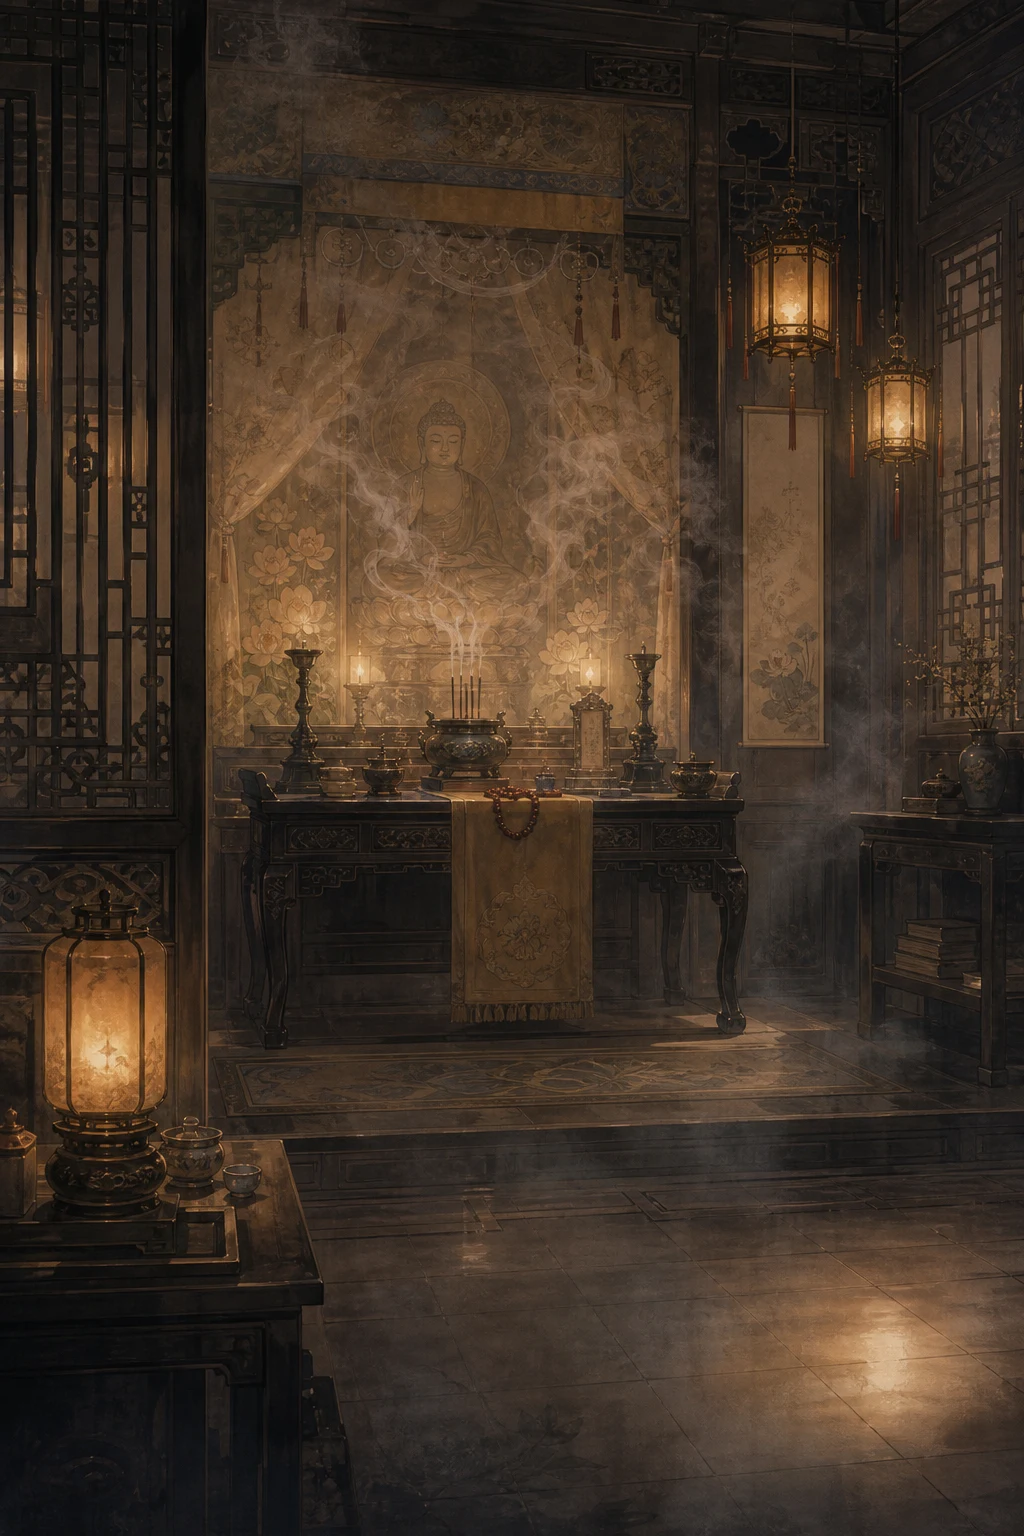
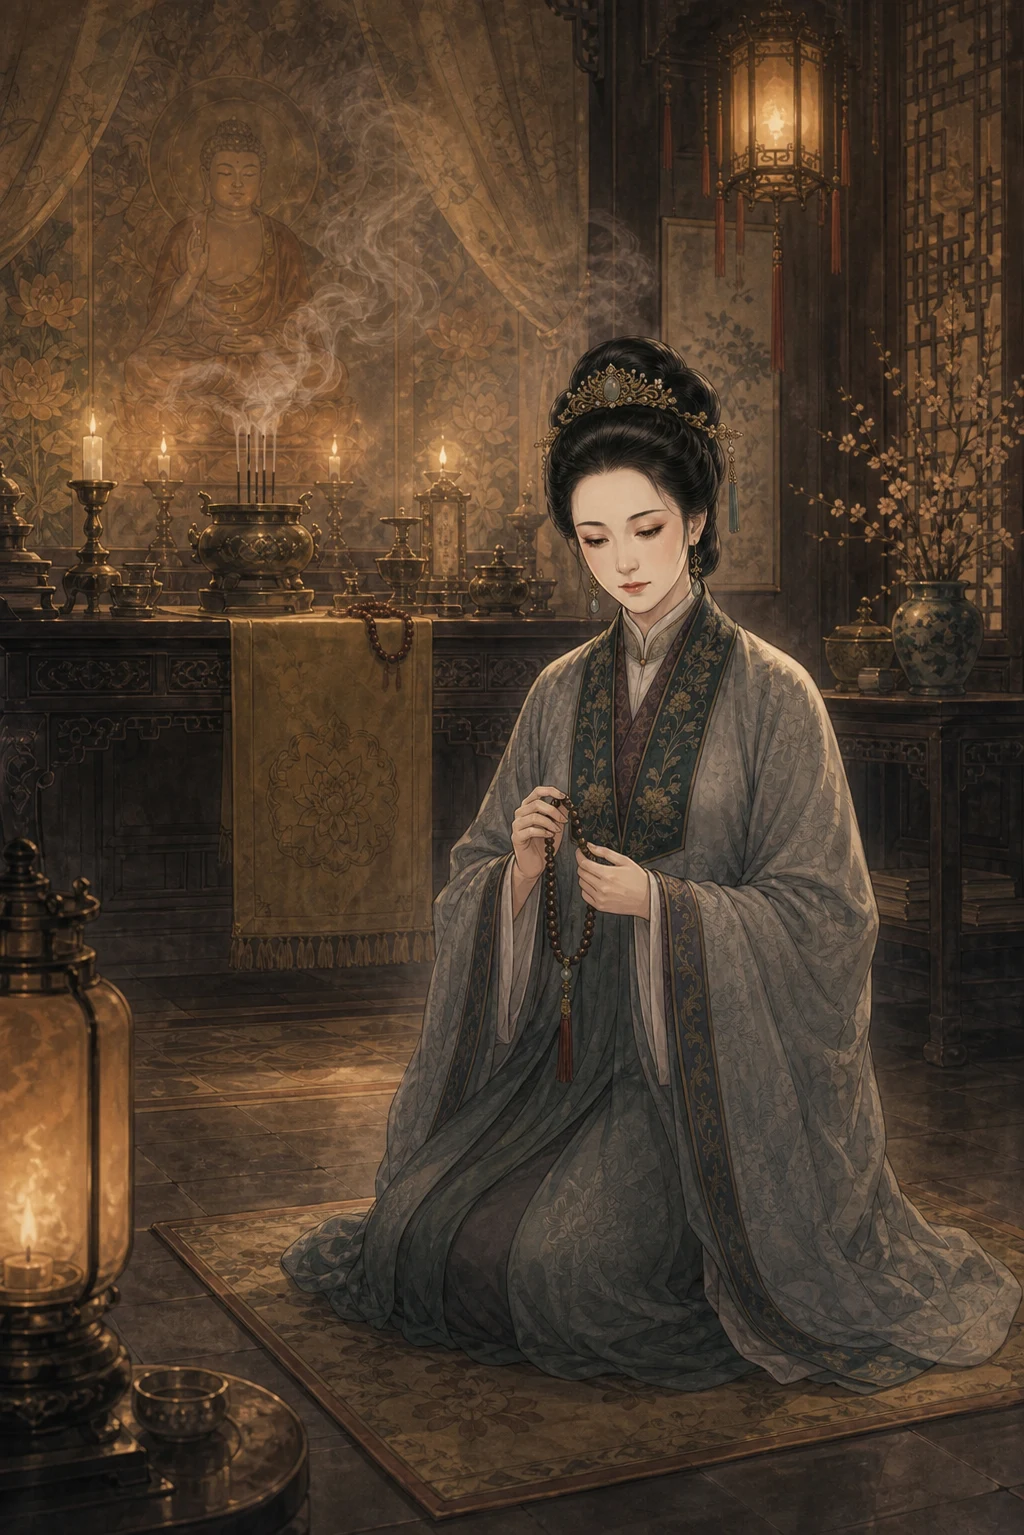
Updates

diff --git a/index.html b/index.html
@@ -13,8 +13,8 @@
     <link rel="preconnect" href="https://fonts.gstatic.com" crossorigin />
     <link href="https://fonts.googleapis.com/css2?family=Noto+Serif+SC:wght@200;400;700&display=swap" rel="stylesheet" />
     <title>红楼幻梦</title>
-    <script type="module" crossorigin src="./assets/index-D9Fabosv.js"></script>
-    <link rel="stylesheet" crossorigin href="./assets/index-DBnyM7tY.css">
+    <script type="module" crossorigin src="./assets/index-BnlBShAM.js"></script>
+    <link rel="stylesheet" crossorigin href="./assets/index-D2oEO_wJ.css">
   <link rel="manifest" href="./manifest.webmanifest"><script id="vite-plugin-pwa:register-sw" src="./registerSW.js"></script></head>
   <body>
     <div id="root"></div>

diff --git a/sw.js b/sw.js
@@ -1,1 +1,1 @@
-if(!self.define){let e,s={};const n=(n,i)=>(n=new URL(n+".js",i).href,s[n]||new Promise(s=>{if("document"in self){const e=document.createElement("script");e.src=n,e.onload=s,document.head.appendChild(e)}else e=n,importScripts(n),s()}).then(()=>{let e=s[n];if(!e)throw new Error(`Module ${n} didn’t register its module`);return e}));self.define=(i,r)=>{const l=e||("document"in self?document.currentScript.src:"")||location.href;if(s[l])return;let a={};const o=e=>n(e,l),t={module:{uri:l},exports:a,require:o};s[l]=Promise.all(i.map(e=>t[e]||o(e))).then(e=>(r(...e),a))}}define(["./workbox-dcde9eb3"],function(e){"use strict";self.skipWaiting(),e.clientsClaim(),e.precacheAndRoute([{url:"registerSW.js",revision:"402b66900e731ca748771b6fc5e7a068"},{url:"index.html",revision:"3681aea67ce051d03186f6af883439fe"},{url:"icons.svg",revision:"3b4fcfcf393eca4d264dca4a4663bc37"},{url:"icon-512.png",revision:"1262cfe5e1c99598004da97f4865f718"},{url:"icon-192.png",revision:"11968d7364ebc2a8b5d2d5cf9469921e"},{url:"favicon.svg",revision:"7e840862161341271697daa99a40d76b"},{url:"apple-touch-icon.png",revision:"c5b6a09361b90baf7b52fb691455790a"},{url:"assets/index-DBnyM7tY.css",revision:null},{url:"assets/index-D9Fabosv.js",revision:null},{url:"assets/ui/menu-bg.webp",revision:null},{url:"assets/ui/gallery-bg.webp",revision:null},{url:"assets/scenes/wangfuren-hall.webp",revision:null},{url:"assets/scenes/wangfuren-fotang.webp",revision:null},{url:"assets/scenes/jiamu-hall.webp",revision:null},{url:"assets/scenes/fengjie-opera.webp",revision:null},{url:"assets/scenes/daiyu-xiaoxiang.webp",revision:null},{url:"assets/portraits/wangfuren-open.webp",revision:null},{url:"assets/portraits/wangfuren-guarded.webp",revision:null},{url:"assets/portraits/wangfuren-calm.webp",revision:null},{url:"assets/portraits/jiamu-open.webp",revision:null},{url:"assets/portraits/jiamu-guarded.webp",revision:null},{url:"assets/portraits/jiamu-calm.webp",revision:null},{url:"assets/portraits/fengjie-open.webp",revision:null},{url:"assets/portraits/fengjie-guarded.webp",revision:null},{url:"assets/portraits/fengjie-calm.webp",revision:null},{url:"assets/portraits/daiyu-open.webp",revision:null},{url:"assets/portraits/daiyu-guarded.webp",revision:null},{url:"assets/portraits/daiyu-calm.webp",revision:null},{url:"assets/locations/yihong.webp",revision:null},{url:"assets/locations/xiaoxiang.webp",revision:null},{url:"assets/locations/qiushuang.webp",revision:null},{url:"assets/locations/qinfang.webp",revision:null},{url:"assets/locations/longcui.webp",revision:null},{url:"assets/locations/hengwu.webp",revision:null},{url:"assets/events/zuimian-shaoyao.webp",revision:null},{url:"assets/events/tingquan-shentan.webp",revision:null},{url:"assets/events/sishan-xiaoxiao.webp",revision:null},{url:"assets/events/kanwairen-dongfanxin.webp",revision:null},{url:"assets/events/gongdu-xixiang.webp",revision:null},{url:"assets/characters/xiren-portrait.webp",revision:null},{url:"assets/characters/xiangyun-portrait.webp",revision:null},{url:"assets/characters/tanchun-portrait.webp",revision:null},{url:"assets/characters/qingwen-portrait.webp",revision:null},{url:"assets/characters/miaoyu-portrait.webp",revision:null},{url:"assets/characters/daiyu-portrait.webp",revision:null},{url:"assets/characters/baochai-portrait.webp",revision:null},{url:"icon-192.png",revision:"11968d7364ebc2a8b5d2d5cf9469921e"},{url:"icon-512.png",revision:"1262cfe5e1c99598004da97f4865f718"},{url:"manifest.webmanifest",revision:"b56b2cd41b08ded0b2807558e7e788be"}],{}),e.cleanupOutdatedCaches(),e.registerRoute(new e.NavigationRoute(e.createHandlerBoundToURL("index.html"))),e.registerRoute(/^https:\/\/fonts\.googleapis\.com\/.*/i,new e.CacheFirst({cacheName:"google-fonts-cache",plugins:[new e.ExpirationPlugin({maxEntries:10,maxAgeSeconds:31536e3})]}),"GET")});
+if(!self.define){let e,s={};const n=(n,i)=>(n=new URL(n+".js",i).href,s[n]||new Promise(s=>{if("document"in self){const e=document.createElement("script");e.src=n,e.onload=s,document.head.appendChild(e)}else e=n,importScripts(n),s()}).then(()=>{let e=s[n];if(!e)throw new Error(`Module ${n} didn’t register its module`);return e}));self.define=(i,r)=>{const l=e||("document"in self?document.currentScript.src:"")||location.href;if(s[l])return;let a={};const o=e=>n(e,l),u={module:{uri:l},exports:a,require:o};s[l]=Promise.all(i.map(e=>u[e]||o(e))).then(e=>(r(...e),a))}}define(["./workbox-dcde9eb3"],function(e){"use strict";self.skipWaiting(),e.clientsClaim(),e.precacheAndRoute([{url:"registerSW.js",revision:"402b66900e731ca748771b6fc5e7a068"},{url:"index.html",revision:"2d0bab3d9e3976017ca1d53c6ffc3efb"},{url:"icons.svg",revision:"3b4fcfcf393eca4d264dca4a4663bc37"},{url:"icon-512.png",revision:"1262cfe5e1c99598004da97f4865f718"},{url:"icon-192.png",revision:"11968d7364ebc2a8b5d2d5cf9469921e"},{url:"favicon.svg",revision:"7e840862161341271697daa99a40d76b"},{url:"apple-touch-icon.png",revision:"c5b6a09361b90baf7b52fb691455790a"},{url:"assets/index-D2oEO_wJ.css",revision:null},{url:"assets/index-BnlBShAM.js",revision:null},{url:"assets/ui/menu-bg.webp",revision:null},{url:"assets/ui/gallery-bg.webp",revision:null},{url:"assets/scenes/well-relics.webp",revision:null},{url:"assets/scenes/wangfuren-hall.webp",revision:null},{url:"assets/scenes/wangfuren-fotang.webp",revision:null},{url:"assets/scenes/opening-taoist-stall.webp",revision:null},{url:"assets/scenes/opening-mirror-face.webp",revision:null},{url:"assets/scenes/opening-mirror-back.webp",revision:null},{url:"assets/scenes/jiamu-hall.webp",revision:null},{url:"assets/scenes/fengjie-opera.webp",revision:null},{url:"assets/scenes/ending-mirror-moon.webp",revision:null},{url:"assets/scenes/day3-dawn-mansion.webp",revision:null},{url:"assets/scenes/day2-well-morning.webp",revision:null},{url:"assets/scenes/day2-garden-search.webp",revision:null},{url:"assets/scenes/daiyu-xiaoxiang.webp",revision:null},{url:"assets/portraits/wangfuren-open.webp",revision:null},{url:"assets/portraits/wangfuren-guarded.webp",revision:null},{url:"assets/portraits/wangfuren-calm.webp",revision:null},{url:"assets/portraits/jiamu-open.webp",revision:null},{url:"assets/portraits/jiamu-guarded.webp",revision:null},{url:"assets/portraits/jiamu-calm.webp",revision:null},{url:"assets/portraits/fengjie-open.webp",revision:null},{url:"assets/portraits/fengjie-guarded.webp",revision:null},{url:"assets/portraits/fengjie-calm.webp",revision:null},{url:"assets/portraits/daiyu-open.webp",revision:null},{url:"assets/portraits/daiyu-guarded.webp",revision:null},{url:"assets/portraits/daiyu-calm.webp",revision:null},{url:"assets/locations/yihong.webp",revision:null},{url:"assets/locations/xiaoxiang.webp",revision:null},{url:"assets/locations/qiushuang.webp",revision:null},{url:"assets/locations/qinfang.webp",revision:null},{url:"assets/locations/longcui.webp",revision:null},{url:"assets/locations/hengwu.webp",revision:null},{url:"assets/events/zuimian-shaoyao.webp",revision:null},{url:"assets/events/tingquan-shentan.webp",revision:null},{url:"assets/events/sishan-xiaoxiao.webp",revision:null},{url:"assets/events/kanwairen-dongfanxin.webp",revision:null},{url:"assets/events/gongdu-xixiang.webp",revision:null},{url:"assets/characters/xiren-portrait.webp",revision:null},{url:"assets/characters/xiangyun-portrait.webp",revision:null},{url:"assets/characters/tanchun-portrait.webp",revision:null},{url:"assets/characters/qingwen-portrait.webp",revision:null},{url:"assets/characters/miaoyu-portrait.webp",revision:null},{url:"assets/characters/daiyu-portrait.webp",revision:null},{url:"assets/characters/baochai-portrait.webp",revision:null},{url:"icon-192.png",revision:"11968d7364ebc2a8b5d2d5cf9469921e"},{url:"icon-512.png",revision:"1262cfe5e1c99598004da97f4865f718"},{url:"manifest.webmanifest",revision:"b56b2cd41b08ded0b2807558e7e788be"}],{}),e.cleanupOutdatedCaches(),e.registerRoute(new e.NavigationRoute(e.createHandlerBoundToURL("index.html"))),e.registerRoute(/^https:\/\/fonts\.googleapis\.com\/.*/i,new e.CacheFirst({cacheName:"google-fonts-cache",plugins:[new e.ExpirationPlugin({maxEntries:10,maxAgeSeconds:31536e3})]}),"GET")});

diff --git a/assets/index-D2oEO_wJ.css b/assets/index-D2oEO_wJ.css
@@ -1,0 +1,1 @@
+@layer properties{@supports (((-webkit-hyphens:none)) and (not (margin-trim:inline))) or ((-moz-orient:inline) and (not (color:rgb(from red r g b)))){*,:before,:after,::backdrop{--tw-rotate-x:initial;--tw-rotate-y:initial;--tw-rotate-z:initial;--tw-skew-x:initial;--tw-skew-y:initial;--tw-space-y-reverse:0;--tw-border-style:solid;--tw-gradient-position:initial;--tw-gradient-from:#0000;--tw-gradient-via:#0000;--tw-gradient-to:#0000;--tw-gradient-stops:initial;--tw-gradient-via-stops:initial;--tw-gradient-from-position:0%;--tw-gradient-via-position:50%;--tw-gradient-to-position:100%;--tw-leading:initial;--tw-font-weight:initial;--tw-tracking:initial;--tw-blur:initial;--tw-brightness:initial;--tw-contrast:initial;--tw-grayscale:initial;--tw-hue-rotate:initial;--tw-invert:initial;--tw-opacity:initial;--tw-saturate:initial;--tw-sepia:initial;--tw-drop-shadow:initial;--tw-drop-shadow-color:initial;--tw-drop-shadow-alpha:100%;--tw-drop-shadow-size:initial;--tw-backdrop-blur:initial;--tw-backdrop-brightness:initial;--tw-backdrop-contrast:initial;--tw-backdrop-grayscale:initial;--tw-backdrop-hue-rotate:initial;--tw-backdrop-invert:initial;--tw-backdrop-opacity:initial;--tw-backdrop-saturate:initial;--tw-backdrop-sepia:initial;--tw-duration:initial}}}@layer theme{:root,:host{--font-sans:ui-sans-serif, system-ui, sans-serif, "Apple Color Emoji", "Segoe UI Emoji", "Segoe UI Symbol", "Noto Color Emoji";--font-serif:"Noto Serif SC", "STSong", "SimSun", "Songti SC", serif;--font-mono:ui-monospace, SFMono-Regular, Menlo, Monaco, Consolas, "Liberation Mono", "Courier New", monospace;--color-amber-50:oklch(98.7% .022 95.277);--color-amber-100:oklch(96.2% .059 95.617);--color-amber-200:oklch(92.4% .12 95.746);--color-amber-300:oklch(87.9% .169 91.605);--color-stone-50:oklch(98.5% .001 106.423);--color-stone-100:oklch(97% .001 106.424);--color-stone-200:oklch(92.3% .003 48.717);--color-stone-300:oklch(86.9% .005 56.366);--color-stone-400:oklch(70.9% .01 56.259);--color-stone-500:oklch(55.3% .013 58.071);--color-stone-600:oklch(44.4% .011 73.639);--color-stone-700:oklch(37.4% .01 67.558);--color-stone-800:oklch(26.8% .007 34.298);--color-stone-900:oklch(21.6% .006 56.043);--color-stone-950:oklch(14.7% .004 49.25);--color-black:#000;--color-white:#fff;--spacing:.25rem;--text-lg:1.125rem;--text-lg--line-height:calc(1.75 / 1.125);--font-weight-bold:700;--tracking-wide:.025em;--tracking-widest:.1em;--radius-md:.375rem;--blur-sm:8px;--default-transition-duration:.15s;--default-transition-timing-function:cubic-bezier(.4, 0, .2, 1);--default-font-family:var(--font-sans);--default-mono-font-family:var(--font-mono)}}@layer base{*,:after,:before,::backdrop{box-sizing:border-box;border:0 solid;margin:0;padding:0}::file-selector-button{box-sizing:border-box;border:0 solid;margin:0;padding:0}html,:host{-webkit-text-size-adjust:100%;tab-size:4;line-height:1.5;font-family:var(--default-font-family,ui-sans-serif, system-ui, sans-serif, "Apple Color Emoji", "Segoe UI Emoji", "Segoe UI Symbol", "Noto Color Emoji");font-feature-settings:var(--default-font-feature-settings,normal);font-variation-settings:var(--default-font-variation-settings,normal);-webkit-tap-highlight-color:transparent}hr{height:0;color:inherit;border-top-width:1px}abbr:where([title]){-webkit-text-decoration:underline dotted;text-decoration:underline dotted}h1,h2,h3,h4,h5,h6{font-size:inherit;font-weight:inherit}a{color:inherit;-webkit-text-decoration:inherit;text-decoration:inherit}b,strong{font-weight:bolder}code,kbd,samp,pre{font-family:var(--default-mono-font-family,ui-monospace, SFMono-Regular, Menlo, Monaco, Consolas, "Liberation Mono", "Courier New", monospace);font-feature-settings:var(--default-mono-font-feature-settings,normal);font-variation-settings:var(--default-mono-font-variation-settings,normal);font-size:1em}small{font-size:80%}sub,sup{vertical-align:baseline;font-size:75%;line-height:0;position:relative}sub{bottom:-.25em}sup{top:-.5em}table{text-indent:0;border-color:inherit;border-collapse:collapse}:-moz-focusring{outline:auto}progress{vertical-align:baseline}summary{display:list-item}ol,ul,menu{list-style:none}img,svg,video,canvas,audio,iframe,embed,object{vertical-align:middle;display:block}img,video{max-width:100%;height:auto}button,input,select,optgroup,textarea{font:inherit;font-feature-settings:inherit;font-variation-settings:inherit;letter-spacing:inherit;color:inherit;opacity:1;background-color:#0000;border-radius:0}::file-selector-button{font:inherit;font-feature-settings:inherit;font-variation-settings:inherit;letter-spacing:inherit;color:inherit;opacity:1;background-color:#0000;border-radius:0}:where(select:is([multiple],[size])) optgroup{font-weight:bolder}:where(select:is([multiple],[size])) optgroup option{padding-inline-start:20px}::file-selector-button{margin-inline-end:4px}::placeholder{opacity:1}@supports (not ((-webkit-appearance:-apple-pay-button))) or (contain-intrinsic-size:1px){::placeholder{color:currentColor}@supports (color:color-mix(in lab,red,red)){::placeholder{color:color-mix(in oklab,currentcolor 50%,transparent)}}}textarea{resize:vertical}::-webkit-search-decoration{-webkit-appearance:none}::-webkit-date-and-time-value{min-height:1lh;text-align:inherit}::-webkit-datetime-edit{display:inline-flex}::-webkit-datetime-edit-fields-wrapper{padding:0}::-webkit-datetime-edit{padding-block:0}::-webkit-datetime-edit-year-field{padding-block:0}::-webkit-datetime-edit-month-field{padding-block:0}::-webkit-datetime-edit-day-field{padding-block:0}::-webkit-datetime-edit-hour-field{padding-block:0}::-webkit-datetime-edit-minute-field{padding-block:0}::-webkit-datetime-edit-second-field{padding-block:0}::-webkit-datetime-edit-millisecond-field{padding-block:0}::-webkit-datetime-edit-meridiem-field{padding-block:0}::-webkit-calendar-picker-indicator{line-height:1}:-moz-ui-invalid{box-shadow:none}button,input:where([type=button],[type=reset],[type=submit]){appearance:button}::file-selector-button{appearance:button}::-webkit-inner-spin-button{height:auto}::-webkit-outer-spin-button{height:auto}[hidden]:where(:not([hidden=until-found])){display:none!important}}@layer components;@layer utilities{.pointer-events-none{pointer-events:none}.absolute{position:absolute}.fixed{position:fixed}.relative{position:relative}.inset-0{inset:calc(var(--spacing) * 0)}.z-10{z-index:10}.z-20{z-index:20}.mx-auto{margin-inline:auto}.mt-0\.5{margin-top:calc(var(--spacing) * .5)}.mt-2{margin-top:calc(var(--spacing) * 2)}.mt-5{margin-top:calc(var(--spacing) * 5)}.mt-9{margin-top:calc(var(--spacing) * 9)}.mt-auto{margin-top:auto}.mb-1{margin-bottom:calc(var(--spacing) * 1)}.mb-2{margin-bottom:calc(var(--spacing) * 2)}.mb-3{margin-bottom:calc(var(--spacing) * 3)}.mb-4{margin-bottom:calc(var(--spacing) * 4)}.mb-5{margin-bottom:calc(var(--spacing) * 5)}.mb-8{margin-bottom:calc(var(--spacing) * 8)}.block{display:block}.contents{display:contents}.flex{display:flex}.inline-block{display:inline-block}.inline-flex{display:inline-flex}.h-4{height:calc(var(--spacing) * 4)}.h-full{height:100%}.max-h-\[58vh\]{max-height:58vh}.min-h-screen{min-height:100vh}.w-full{width:100%}.max-w-\[260px\]{max-width:260px}.max-w-\[280px\]{max-width:280px}.max-w-\[440px\]{max-width:440px}.flex-1{flex:1}.transform{transform:var(--tw-rotate-x,) var(--tw-rotate-y,) var(--tw-rotate-z,) var(--tw-skew-x,) var(--tw-skew-y,)}.cursor-pointer{cursor:pointer}.flex-col{flex-direction:column}.items-center{align-items:center}.justify-center{justify-content:center}.justify-end{justify-content:flex-end}.gap-3{gap:calc(var(--spacing) * 3)}.gap-6{gap:calc(var(--spacing) * 6)}:where(.space-y-1\.5>:not(:last-child)){--tw-space-y-reverse:0;margin-block-start:calc(calc(var(--spacing) * 1.5) * var(--tw-space-y-reverse));margin-block-end:calc(calc(var(--spacing) * 1.5) * calc(1 - var(--tw-space-y-reverse)))}:where(.space-y-2\.5>:not(:last-child)){--tw-space-y-reverse:0;margin-block-start:calc(calc(var(--spacing) * 2.5) * var(--tw-space-y-reverse));margin-block-end:calc(calc(var(--spacing) * 2.5) * calc(1 - var(--tw-space-y-reverse)))}:where(.space-y-3>:not(:last-child)){--tw-space-y-reverse:0;margin-block-start:calc(calc(var(--spacing) * 3) * var(--tw-space-y-reverse));margin-block-end:calc(calc(var(--spacing) * 3) * calc(1 - var(--tw-space-y-reverse)))}:where(.space-y-5>:not(:last-child)){--tw-space-y-reverse:0;margin-block-start:calc(calc(var(--spacing) * 5) * var(--tw-space-y-reverse));margin-block-end:calc(calc(var(--spacing) * 5) * calc(1 - var(--tw-space-y-reverse)))}:where(.space-y-6>:not(:last-child)){--tw-space-y-reverse:0;margin-block-start:calc(calc(var(--spacing) * 6) * var(--tw-space-y-reverse));margin-block-end:calc(calc(var(--spacing) * 6) * calc(1 - var(--tw-space-y-reverse)))}.overflow-hidden{overflow:hidden}.overflow-y-auto{overflow-y:auto}.rounded{border-radius:.25rem}.rounded-md{border-radius:var(--radius-md)}.border{border-style:var(--tw-border-style);border-width:1px}.border-t{border-top-style:var(--tw-border-style);border-top-width:1px}.border-l-2{border-left-style:var(--tw-border-style);border-left-width:2px}.border-amber-200\/20{border-color:#fee68533}@supports (color:color-mix(in lab,red,red)){.border-amber-200\/20{border-color:color-mix(in oklab,var(--color-amber-200) 20%,transparent)}}.border-amber-200\/70{border-color:#fee685b3}@supports (color:color-mix(in lab,red,red)){.border-amber-200\/70{border-color:color-mix(in oklab,var(--color-amber-200) 70%,transparent)}}.border-amber-300\/40{border-color:#ffd23666}@supports (color:color-mix(in lab,red,red)){.border-amber-300\/40{border-color:color-mix(in oklab,var(--color-amber-300) 40%,transparent)}}.border-amber-300\/60{border-color:#ffd23699}@supports (color:color-mix(in lab,red,red)){.border-amber-300\/60{border-color:color-mix(in oklab,var(--color-amber-300) 60%,transparent)}}.border-stone-600{border-color:var(--color-stone-600)}.border-stone-700{border-color:var(--color-stone-700)}.border-stone-800{border-color:var(--color-stone-800)}.border-white\/20{border-color:#fff3}@supports (color:color-mix(in lab,red,red)){.border-white\/20{border-color:color-mix(in oklab,var(--color-white) 20%,transparent)}}.border-white\/25{border-color:#ffffff40}@supports (color:color-mix(in lab,red,red)){.border-white\/25{border-color:color-mix(in oklab,var(--color-white) 25%,transparent)}}.bg-amber-100\/\[0\.05\]{background-color:#fef3c60d}@supports (color:color-mix(in lab,red,red)){.bg-amber-100\/\[0\.05\]{background-color:color-mix(in oklab,var(--color-amber-100) 5%,transparent)}}.bg-amber-100\/\[0\.06\]{background-color:#fef3c60f}@supports (color:color-mix(in lab,red,red)){.bg-amber-100\/\[0\.06\]{background-color:color-mix(in oklab,var(--color-amber-100) 6%,transparent)}}.bg-black\/40{background-color:#0006}@supports (color:color-mix(in lab,red,red)){.bg-black\/40{background-color:color-mix(in oklab,var(--color-black) 40%,transparent)}}.bg-stone-900{background-color:var(--color-stone-900)}.bg-stone-900\/40{background-color:#1c191766}@supports (color:color-mix(in lab,red,red)){.bg-stone-900\/40{background-color:color-mix(in oklab,var(--color-stone-900) 40%,transparent)}}.bg-stone-900\/60{background-color:#1c191799}@supports (color:color-mix(in lab,red,red)){.bg-stone-900\/60{background-color:color-mix(in oklab,var(--color-stone-900) 60%,transparent)}}.bg-stone-900\/80{background-color:#1c1917cc}@supports (color:color-mix(in lab,red,red)){.bg-stone-900\/80{background-color:color-mix(in oklab,var(--color-stone-900) 80%,transparent)}}.bg-stone-950{background-color:var(--color-stone-950)}.bg-stone-950\/30{background-color:#0c0a094d}@supports (color:color-mix(in lab,red,red)){.bg-stone-950\/30{background-color:color-mix(in oklab,var(--color-stone-950) 30%,transparent)}}.bg-stone-950\/50{background-color:#0c0a0980}@supports (color:color-mix(in lab,red,red)){.bg-stone-950\/50{background-color:color-mix(in oklab,var(--color-stone-950) 50%,transparent)}}.bg-stone-950\/55{background-color:#0c0a098c}@supports (color:color-mix(in lab,red,red)){.bg-stone-950\/55{background-color:color-mix(in oklab,var(--color-stone-950) 55%,transparent)}}.bg-gradient-to-b{--tw-gradient-position:to bottom in oklab;background-image:linear-gradient(var(--tw-gradient-stops))}.bg-gradient-to-t{--tw-gradient-position:to top in oklab;background-image:linear-gradient(var(--tw-gradient-stops))}.from-stone-700{--tw-gradient-from:var(--color-stone-700);--tw-gradient-stops:var(--tw-gradient-via-stops,var(--tw-gradient-position), var(--tw-gradient-from) var(--tw-gradient-from-position), var(--tw-gradient-to) var(--tw-gradient-to-position))}.from-stone-950{--tw-gradient-from:var(--color-stone-950);--tw-gradient-stops:var(--tw-gradient-via-stops,var(--tw-gradient-position), var(--tw-gradient-from) var(--tw-gradient-from-position), var(--tw-gradient-to) var(--tw-gradient-to-position))}.from-stone-950\/55{--tw-gradient-from:#0c0a098c}@supports (color:color-mix(in lab,red,red)){.from-stone-950\/55{--tw-gradient-from:color-mix(in oklab, var(--color-stone-950) 55%, transparent)}}.from-stone-950\/55{--tw-gradient-stops:var(--tw-gradient-via-stops,var(--tw-gradient-position), var(--tw-gradient-from) var(--tw-gradient-from-position), var(--tw-gradient-to) var(--tw-gradient-to-position))}.from-stone-950\/70{--tw-gradient-from:#0c0a09b3}@supports (color:color-mix(in lab,red,red)){.from-stone-950\/70{--tw-gradient-from:color-mix(in oklab, var(--color-stone-950) 70%, transparent)}}.from-stone-950\/70{--tw-gradient-stops:var(--tw-gradient-via-stops,var(--tw-gradient-position), var(--tw-gradient-from) var(--tw-gradient-from-position), var(--tw-gradient-to) var(--tw-gradient-to-position))}.from-stone-950\/75{--tw-gradient-from:#0c0a09bf}@supports (color:color-mix(in lab,red,red)){.from-stone-950\/75{--tw-gradient-from:color-mix(in oklab, var(--color-stone-950) 75%, transparent)}}.from-stone-950\/75{--tw-gradient-stops:var(--tw-gradient-via-stops,var(--tw-gradient-position), var(--tw-gradient-from) var(--tw-gradient-from-position), var(--tw-gradient-to) var(--tw-gradient-to-position))}.from-stone-950\/80{--tw-gradient-from:#0c0a09cc}@supports (color:color-mix(in lab,red,red)){.from-stone-950\/80{--tw-gradient-from:color-mix(in oklab, var(--color-stone-950) 80%, transparent)}}.from-stone-950\/80{--tw-gradient-stops:var(--tw-gradient-via-stops,var(--tw-gradient-position), var(--tw-gradient-from) var(--tw-gradient-from-position), var(--tw-gradient-to) var(--tw-gradient-to-position))}.via-stone-800{--tw-gradient-via:var(--color-stone-800);--tw-gradient-via-stops:var(--tw-gradient-position), var(--tw-gradient-from) var(--tw-gradient-from-position), var(--tw-gradient-via) var(--tw-gradient-via-position), var(--tw-gradient-to) var(--tw-gradient-to-position);--tw-gradient-stops:var(--tw-gradient-via-stops)}.via-stone-950\/20{--tw-gradient-via:#0c0a0933}@supports (color:color-mix(in lab,red,red)){.via-stone-950\/20{--tw-gradient-via:color-mix(in oklab, var(--color-stone-950) 20%, transparent)}}.via-stone-950\/20{--tw-gradient-via-stops:var(--tw-gradient-position), var(--tw-gradient-from) var(--tw-gradient-from-position), var(--tw-gradient-via) var(--tw-gradient-via-position), var(--tw-gradient-to) var(--tw-gradient-to-position);--tw-gradient-stops:var(--tw-gradient-via-stops)}.via-stone-950\/55{--tw-gradient-via:#0c0a098c}@supports (color:color-mix(in lab,red,red)){.via-stone-950\/55{--tw-gradient-via:color-mix(in oklab, var(--color-stone-950) 55%, transparent)}}.via-stone-950\/55{--tw-gradient-via-stops:var(--tw-gradient-position), var(--tw-gradient-from) var(--tw-gradient-from-position), var(--tw-gradient-via) var(--tw-gradient-via-position), var(--tw-gradient-to) var(--tw-gradient-to-position);--tw-gradient-stops:var(--tw-gradient-via-stops)}.via-stone-950\/85{--tw-gradient-via:#0c0a09d9}@supports (color:color-mix(in lab,red,red)){.via-stone-950\/85{--tw-gradient-via:color-mix(in oklab, var(--color-stone-950) 85%, transparent)}}.via-stone-950\/85{--tw-gradient-via-stops:var(--tw-gradient-position), var(--tw-gradient-from) var(--tw-gradient-from-position), var(--tw-gradient-via) var(--tw-gradient-via-position), var(--tw-gradient-to) var(--tw-gradient-to-position);--tw-gradient-stops:var(--tw-gradient-via-stops)}.via-stone-950\/90{--tw-gradient-via:#0c0a09e6}@supports (color:color-mix(in lab,red,red)){.via-stone-950\/90{--tw-gradient-via:color-mix(in oklab, var(--color-stone-950) 90%, transparent)}}.via-stone-950\/90{--tw-gradient-via-stops:var(--tw-gradient-position), var(--tw-gradient-from) var(--tw-gradient-from-position), var(--tw-gradient-via) var(--tw-gradient-via-position), var(--tw-gradient-to) var(--tw-gradient-to-position);--tw-gradient-stops:var(--tw-gradient-via-stops)}.via-transparent{--tw-gradient-via:transparent;--tw-gradient-via-stops:var(--tw-gradient-position), var(--tw-gradient-from) var(--tw-gradient-from-position), var(--tw-gradient-via) var(--tw-gradient-via-position), var(--tw-gradient-to) var(--tw-gradient-to-position);--tw-gradient-stops:var(--tw-gradient-via-stops)}.to-stone-950{--tw-gradient-to:var(--color-stone-950);--tw-gradient-stops:var(--tw-gradient-via-stops,var(--tw-gradient-position), var(--tw-gradient-from) var(--tw-gradient-from-position), var(--tw-gradient-to) var(--tw-gradient-to-position))}.to-stone-950\/0{--tw-gradient-to:#0000}@supports (color:color-mix(in lab,red,red)){.to-stone-950\/0{--tw-gradient-to:color-mix(in oklab, var(--color-stone-950) 0%, transparent)}}.to-stone-950\/0{--tw-gradient-stops:var(--tw-gradient-via-stops,var(--tw-gradient-position), var(--tw-gradient-from) var(--tw-gradient-from-position), var(--tw-gradient-to) var(--tw-gradient-to-position))}.to-stone-950\/30{--tw-gradient-to:#0c0a094d}@supports (color:color-mix(in lab,red,red)){.to-stone-950\/30{--tw-gradient-to:color-mix(in oklab, var(--color-stone-950) 30%, transparent)}}.to-stone-950\/30{--tw-gradient-stops:var(--tw-gradient-via-stops,var(--tw-gradient-position), var(--tw-gradient-from) var(--tw-gradient-from-position), var(--tw-gradient-to) var(--tw-gradient-to-position))}.to-stone-950\/80{--tw-gradient-to:#0c0a09cc}@supports (color:color-mix(in lab,red,red)){.to-stone-950\/80{--tw-gradient-to:color-mix(in oklab, var(--color-stone-950) 80%, transparent)}}.to-stone-950\/80{--tw-gradient-stops:var(--tw-gradient-via-stops,var(--tw-gradient-position), var(--tw-gradient-from) var(--tw-gradient-from-position), var(--tw-gradient-to) var(--tw-gradient-to-position))}.to-stone-950\/90{--tw-gradient-to:#0c0a09e6}@supports (color:color-mix(in lab,red,red)){.to-stone-950\/90{--tw-gradient-to:color-mix(in oklab, var(--color-stone-950) 90%, transparent)}}.to-stone-950\/90{--tw-gradient-stops:var(--tw-gradient-via-stops,var(--tw-gradient-position), var(--tw-gradient-from) var(--tw-gradient-from-position), var(--tw-gradient-to) var(--tw-gradient-to-position))}.to-stone-950\/95{--tw-gradient-to:#0c0a09f2}@supports (color:color-mix(in lab,red,red)){.to-stone-950\/95{--tw-gradient-to:color-mix(in oklab, var(--color-stone-950) 95%, transparent)}}.to-stone-950\/95{--tw-gradient-stops:var(--tw-gradient-via-stops,var(--tw-gradient-position), var(--tw-gradient-from) var(--tw-gradient-from-position), var(--tw-gradient-to) var(--tw-gradient-to-position))}.object-cover{object-fit:cover}.object-top{object-position:top}.p-4{padding:calc(var(--spacing) * 4)}.p-5{padding:calc(var(--spacing) * 5)}.p-6{padding:calc(var(--spacing) * 6)}.px-4{padding-inline:calc(var(--spacing) * 4)}.px-5{padding-inline:calc(var(--spacing) * 5)}.px-6{padding-inline:calc(var(--spacing) * 6)}.px-7{padding-inline:calc(var(--spacing) * 7)}.px-8{padding-inline:calc(var(--spacing) * 8)}.py-1{padding-block:calc(var(--spacing) * 1)}.py-2{padding-block:calc(var(--spacing) * 2)}.py-2\.5{padding-block:calc(var(--spacing) * 2.5)}.py-3{padding-block:calc(var(--spacing) * 3)}.py-4{padding-block:calc(var(--spacing) * 4)}.py-12{padding-block:calc(var(--spacing) * 12)}.pt-5{padding-top:calc(var(--spacing) * 5)}.pt-6{padding-top:calc(var(--spacing) * 6)}.pt-8{padding-top:calc(var(--spacing) * 8)}.pt-10{padding-top:calc(var(--spacing) * 10)}.pr-4{padding-right:calc(var(--spacing) * 4)}.pb-6{padding-bottom:calc(var(--spacing) * 6)}.pb-8{padding-bottom:calc(var(--spacing) * 8)}.pb-24{padding-bottom:calc(var(--spacing) * 24)}.pl-3{padding-left:calc(var(--spacing) * 3)}.text-center{text-align:center}.text-left{text-align:left}.font-serif{font-family:var(--font-serif)}.text-lg{font-size:var(--text-lg);line-height:var(--tw-leading,var(--text-lg--line-height))}.text-\[11px\]{font-size:11px}.text-\[12px\]{font-size:12px}.text-\[13px\]{font-size:13px}.text-\[14px\]{font-size:14px}.text-\[15px\]{font-size:15px}.text-\[16px\]{font-size:16px}.text-\[17px\]{font-size:17px}.text-\[22px\]{font-size:22px}.leading-5{--tw-leading:calc(var(--spacing) * 5);line-height:calc(var(--spacing) * 5)}.leading-6{--tw-leading:calc(var(--spacing) * 6);line-height:calc(var(--spacing) * 6)}.leading-7{--tw-leading:calc(var(--spacing) * 7);line-height:calc(var(--spacing) * 7)}.leading-8{--tw-leading:calc(var(--spacing) * 8);line-height:calc(var(--spacing) * 8)}.leading-9{--tw-leading:calc(var(--spacing) * 9);line-height:calc(var(--spacing) * 9)}.font-bold{--tw-font-weight:var(--font-weight-bold);font-weight:var(--font-weight-bold)}.tracking-\[0\.2em\]{--tw-tracking:.2em;letter-spacing:.2em}.tracking-\[0\.3em\]{--tw-tracking:.3em;letter-spacing:.3em}.tracking-\[0\.4em\]{--tw-tracking:.4em;letter-spacing:.4em}.tracking-wide{--tw-tracking:var(--tracking-wide);letter-spacing:var(--tracking-wide)}.tracking-widest{--tw-tracking:var(--tracking-widest);letter-spacing:var(--tracking-widest)}.whitespace-pre-line{white-space:pre-line}.text-amber-50{color:var(--color-amber-50)}.text-amber-50\/90{color:#fffbebe6}@supports (color:color-mix(in lab,red,red)){.text-amber-50\/90{color:color-mix(in oklab,var(--color-amber-50) 90%,transparent)}}.text-amber-100{color:var(--color-amber-100)}.text-amber-200\/60{color:#fee68599}@supports (color:color-mix(in lab,red,red)){.text-amber-200\/60{color:color-mix(in oklab,var(--color-amber-200) 60%,transparent)}}.text-amber-200\/80{color:#fee685cc}@supports (color:color-mix(in lab,red,red)){.text-amber-200\/80{color:color-mix(in oklab,var(--color-amber-200) 80%,transparent)}}.text-amber-200\/90{color:#fee685e6}@supports (color:color-mix(in lab,red,red)){.text-amber-200\/90{color:color-mix(in oklab,var(--color-amber-200) 90%,transparent)}}.text-stone-50{color:var(--color-stone-50)}.text-stone-100{color:var(--color-stone-100)}.text-stone-200{color:var(--color-stone-200)}.text-stone-300{color:var(--color-stone-300)}.text-stone-300\/80{color:#d6d3d1cc}@supports (color:color-mix(in lab,red,red)){.text-stone-300\/80{color:color-mix(in oklab,var(--color-stone-300) 80%,transparent)}}.text-stone-300\/90{color:#d6d3d1e6}@supports (color:color-mix(in lab,red,red)){.text-stone-300\/90{color:color-mix(in oklab,var(--color-stone-300) 90%,transparent)}}.text-stone-400{color:var(--color-stone-400)}.text-stone-500{color:var(--color-stone-500)}.text-stone-600{color:var(--color-stone-600)}.opacity-0{opacity:0}.opacity-35{opacity:.35}.opacity-45{opacity:.45}.opacity-90{opacity:.9}.opacity-100{opacity:1}.drop-shadow{--tw-drop-shadow-size:drop-shadow(0 1px 2px var(--tw-drop-shadow-color,#0000001a)) drop-shadow(0 1px 1px var(--tw-drop-shadow-color,#0000000f));--tw-drop-shadow:drop-shadow(0 1px 2px #0000001a) drop-shadow(0 1px 1px #0000000f);filter:var(--tw-blur,) var(--tw-brightness,) var(--tw-contrast,) var(--tw-grayscale,) var(--tw-hue-rotate,) var(--tw-invert,) var(--tw-saturate,) var(--tw-sepia,) var(--tw-drop-shadow,)}.drop-shadow-\[0_2px_6px_rgba\(0\,0\,0\,0\.85\)\]{--tw-drop-shadow-size:drop-shadow(0 2px 6px var(--tw-drop-shadow-color,#000000d9));--tw-drop-shadow:var(--tw-drop-shadow-size);filter:var(--tw-blur,) var(--tw-brightness,) var(--tw-contrast,) var(--tw-grayscale,) var(--tw-hue-rotate,) var(--tw-invert,) var(--tw-saturate,) var(--tw-sepia,) var(--tw-drop-shadow,)}.filter{filter:var(--tw-blur,) var(--tw-brightness,) var(--tw-contrast,) var(--tw-grayscale,) var(--tw-hue-rotate,) var(--tw-invert,) var(--tw-saturate,) var(--tw-sepia,) var(--tw-drop-shadow,)}.backdrop-blur-sm{--tw-backdrop-blur:blur(var(--blur-sm));-webkit-backdrop-filter:var(--tw-backdrop-blur,) var(--tw-backdrop-brightness,) var(--tw-backdrop-contrast,) var(--tw-backdrop-grayscale,) var(--tw-backdrop-hue-rotate,) var(--tw-backdrop-invert,) var(--tw-backdrop-opacity,) var(--tw-backdrop-saturate,) var(--tw-backdrop-sepia,);backdrop-filter:var(--tw-backdrop-blur,) var(--tw-backdrop-brightness,) var(--tw-backdrop-contrast,) var(--tw-backdrop-grayscale,) var(--tw-backdrop-hue-rotate,) var(--tw-backdrop-invert,) var(--tw-backdrop-opacity,) var(--tw-backdrop-saturate,) var(--tw-backdrop-sepia,)}.transition{transition-property:color,background-color,border-color,outline-color,text-decoration-color,fill,stroke,--tw-gradient-from,--tw-gradient-via,--tw-gradient-to,opacity,box-shadow,transform,translate,scale,rotate,filter,-webkit-backdrop-filter,backdrop-filter,display,content-visibility,overlay,pointer-events;transition-timing-function:var(--tw-ease,var(--default-transition-timing-function));transition-duration:var(--tw-duration,var(--default-transition-duration))}.transition-opacity{transition-property:opacity;transition-timing-function:var(--tw-ease,var(--default-transition-timing-function));transition-duration:var(--tw-duration,var(--default-transition-duration))}.duration-300{--tw-duration:.3s;transition-duration:.3s}.duration-500{--tw-duration:.5s;transition-duration:.5s}.outline-none{--tw-outline-style:none;outline-style:none}.select-none{-webkit-user-select:none;user-select:none}@media(hover:hover){.hover\:border-amber-200\/50:hover{border-color:#fee68580}@supports (color:color-mix(in lab,red,red)){.hover\:border-amber-200\/50:hover{border-color:color-mix(in oklab,var(--color-amber-200) 50%,transparent)}}.hover\:border-amber-200\/70:hover{border-color:#fee685b3}@supports (color:color-mix(in lab,red,red)){.hover\:border-amber-200\/70:hover{border-color:color-mix(in oklab,var(--color-amber-200) 70%,transparent)}}.hover\:border-amber-300\/60:hover{border-color:#ffd23699}@supports (color:color-mix(in lab,red,red)){.hover\:border-amber-300\/60:hover{border-color:color-mix(in oklab,var(--color-amber-300) 60%,transparent)}}.hover\:bg-amber-300\/10:hover{background-color:#ffd2361a}@supports (color:color-mix(in lab,red,red)){.hover\:bg-amber-300\/10:hover{background-color:color-mix(in oklab,var(--color-amber-300) 10%,transparent)}}.hover\:bg-stone-900\/70:hover{background-color:#1c1917b3}@supports (color:color-mix(in lab,red,red)){.hover\:bg-stone-900\/70:hover{background-color:color-mix(in oklab,var(--color-stone-900) 70%,transparent)}}.hover\:text-amber-100:hover{color:var(--color-amber-100)}.hover\:text-stone-200:hover{color:var(--color-stone-200)}}.focus\:border-amber-300\/70:focus{border-color:#ffd236b3}@supports (color:color-mix(in lab,red,red)){.focus\:border-amber-300\/70:focus{border-color:color-mix(in oklab,var(--color-amber-300) 70%,transparent)}}.active\:scale-\[0\.99\]:active{scale:.99}.disabled\:cursor-not-allowed:disabled{cursor:not-allowed}.disabled\:opacity-40:disabled{opacity:.4}}html,body,#root{min-height:100%}body{margin:0}p{text-wrap:pretty}@keyframes fade-in{0%{opacity:0;transform:translateY(10px)}to{opacity:1;transform:translateY(0)}}@keyframes fade-in-scene{0%{opacity:0}to{opacity:1}}.animate-fade-in-scene{animation:.8s ease-out forwards fade-in-scene}@keyframes fade-in-up{0%{opacity:0;transform:translateY(20px)}to{opacity:1;transform:translateY(0)}}@keyframes scale-in{0%{opacity:0;transform:scale(.95)}to{opacity:1;transform:scale(1)}}.animate-fade-in{animation:.5s ease-out forwards fade-in}.animate-fade-in-up{animation:.4s ease-out forwards fade-in-up}.animate-scale-in{animation:.3s ease-out forwards scale-in}@keyframes flash-badge{0%{opacity:0;transform:translate(-50%)translateY(-6px)scale(.9)}15%{opacity:1;transform:translate(-50%)translateY(0)scale(1)}70%{opacity:1;transform:translate(-50%)translateY(0)scale(1)}to{opacity:0;transform:translate(-50%)translateY(-4px)scale(.95)}}.animate-flash-badge{animation:1.1s ease-out forwards flash-badge}@property --tw-rotate-x{syntax:"*";inherits:false}@property --tw-rotate-y{syntax:"*";inherits:false}@property --tw-rotate-z{syntax:"*";inherits:false}@property --tw-skew-x{syntax:"*";inherits:false}@property --tw-skew-y{syntax:"*";inherits:false}@property --tw-space-y-reverse{syntax:"*";inherits:false;initial-value:0}@property --tw-border-style{syntax:"*";inherits:false;initial-value:solid}@property --tw-gradient-position{syntax:"*";inherits:false}@property --tw-gradient-from{syntax:"<color>";inherits:false;initial-value:#0000}@property --tw-gradient-via{syntax:"<color>";inherits:false;initial-value:#0000}@property --tw-gradient-to{syntax:"<color>";inherits:false;initial-value:#0000}@property --tw-gradient-stops{syntax:"*";inherits:false}@property --tw-gradient-via-stops{syntax:"*";inherits:false}@property --tw-gradient-from-position{syntax:"<length-percentage>";inherits:false;initial-value:0%}@property --tw-gradient-via-position{syntax:"<length-percentage>";inherits:false;initial-value:50%}@property --tw-gradient-to-position{syntax:"<length-percentage>";inherits:false;initial-value:100%}@property --tw-leading{syntax:"*";inherits:false}@property --tw-font-weight{syntax:"*";inherits:false}@property --tw-tracking{syntax:"*";inherits:false}@property --tw-blur{syntax:"*";inherits:false}@property --tw-brightness{syntax:"*";inherits:false}@property --tw-contrast{syntax:"*";inherits:false}@property --tw-grayscale{syntax:"*";inherits:false}@property --tw-hue-rotate{syntax:"*";inherits:false}@property --tw-invert{syntax:"*";inherits:false}@property --tw-opacity{syntax:"*";inherits:false}@property --tw-saturate{syntax:"*";inherits:false}@property --tw-sepia{syntax:"*";inherits:false}@property --tw-drop-shadow{syntax:"*";inherits:false}@property --tw-drop-shadow-color{syntax:"*";inherits:false}@property --tw-drop-shadow-alpha{syntax:"<percentage>";inherits:false;initial-value:100%}@property --tw-drop-shadow-size{syntax:"*";inherits:false}@property --tw-backdrop-blur{syntax:"*";inherits:false}@property --tw-backdrop-brightness{syntax:"*";inherits:false}@property --tw-backdrop-contrast{syntax:"*";inherits:false}@property --tw-backdrop-grayscale{syntax:"*";inherits:false}@property --tw-backdrop-hue-rotate{syntax:"*";inherits:false}@property --tw-backdrop-invert{syntax:"*";inherits:false}@property --tw-backdrop-opacity{syntax:"*";inherits:false}@property --tw-backdrop-saturate{syntax:"*";inherits:false}@property --tw-backdrop-sepia{syntax:"*";inherits:false}@property --tw-duration{syntax:"*";inherits:false}